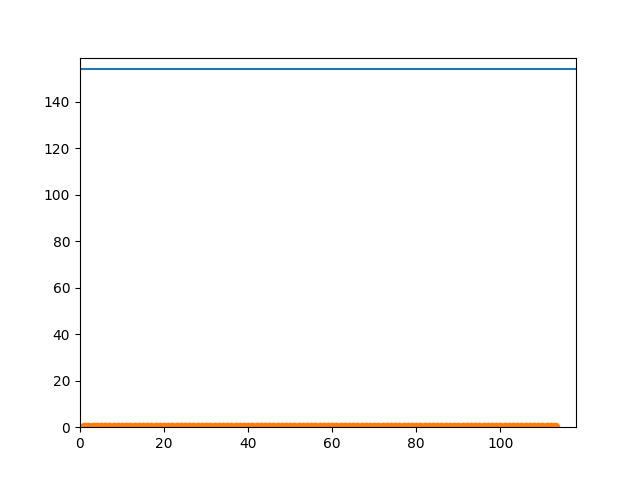
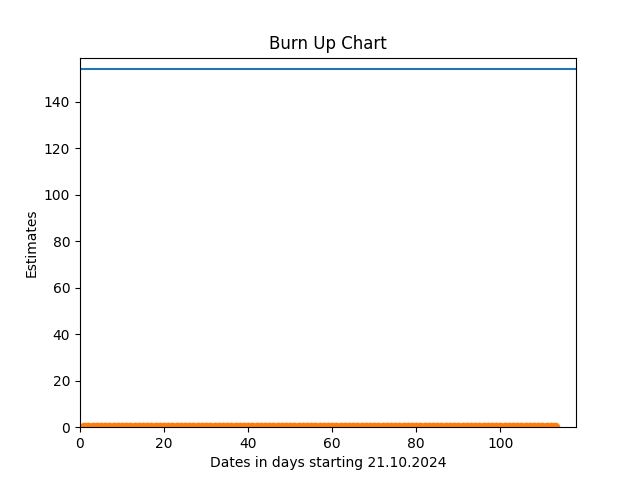
Made the Plot of the Burnup lock nicer (added Title and xy-labels)

Changed region(s): [[0.3125, 0.9375, 0.7188, 1.0], [0.4062, 0.0625, 0.625, 0.125], [0.0312, 0.4375, 0.0625, 0.5938]]

diff --git a/Burn-Up-Chart/CreatBurnUpChart.py b/Burn-Up-Chart/CreatBurnUpChart.py
@@ -22,6 +22,11 @@ with open("Burn-Up-Chart/log.csv", "r") as file:
     
     plt.axis([0,len(dates)+5, 0, max_estimate+5]) # Fixes the viewport for the Plot
     plt.hlines(max_estimate, 0, len(dates)+5) # Plots the total estimate line (Goal line)
+
+    plt.title("Burn Up Chart")
+    plt.xlabel("Dates in days starting 21.10.2024")
+    plt.ylabel("Estimates")
+
     plt.plot(date_pos, estimates) # Plots a line with the done estimates
     plt.plot(date_pos, estimates, 'o') # Plors Dots for the done estimates
     plt.savefig("Burn-Up-Chart/Brunup-plot.png")